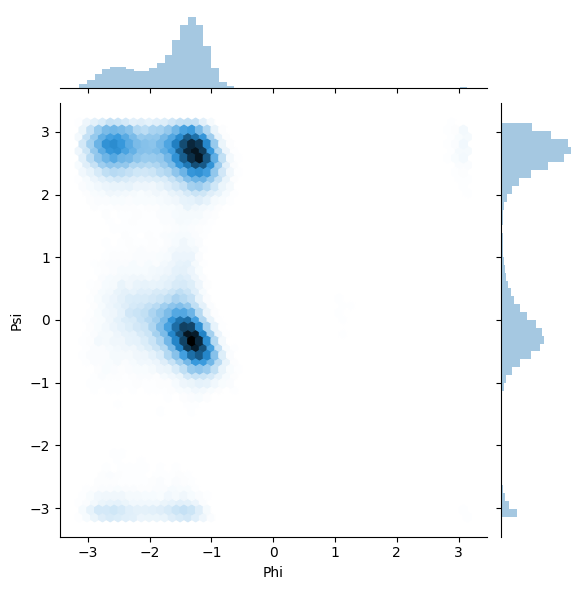
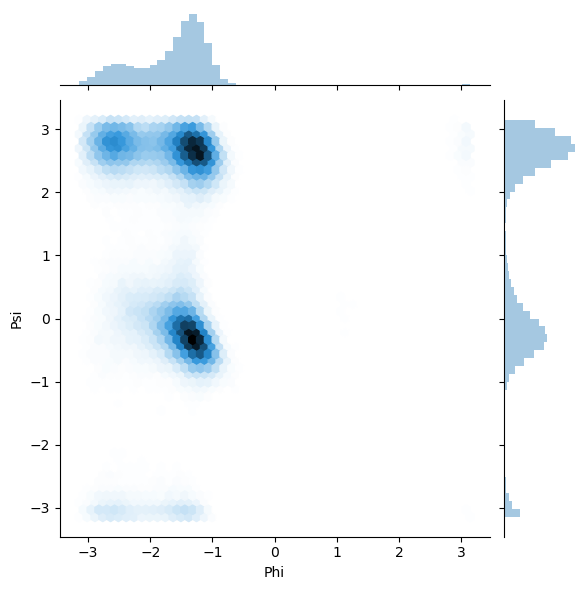
made get_angles.py

diff --git a/make_dataset/alanine/plot_phi_psi.py b/make_dataset/alanine/plot_phi_psi.py
@@ -1,6 +1,6 @@
 #!/usr/bin/env python
 # -*- coding: utf-8 -*-
-
+from get_angles import get_angles
 import matplotlib.pyplot as plt
 import mdtraj as md
 import numpy as np
@@ -9,18 +9,7 @@ from math import pi
 import seaborn as sns
 import pandas as pd
 
-def get_angles_dcd(fname1):
-    traj = md.load_dcd(fname1, top = '../ala2.pdb')
-    psi_indices, phi_indices = [6, 8, 14, 16], [4, 6, 8, 14]
-    arr_angles = md.compute_dihedrals(traj, [phi_indices, psi_indices])
-    return arr_angles
-
-def get_angles_xtc(fname1):
-    traj = md.load_xtc(fname1, top = '../ala2.pdb')
-    psi_indices, phi_indices = [6, 8, 14, 16], [4, 6, 8, 14]
-    arr_angles = md.compute_dihedrals(traj, [phi_indices, psi_indices])
-    return arr_angles
-
+"""
 def get_ene(fname2):
     ene=[]
     f = open(fname2, "r")
@@ -31,25 +20,23 @@ def get_ene(fname2):
             ene.append(float(itemList[3]))
     arr_ene = np.array(ene).reshape((10000,1))
     return arr_ene
-
-
+"""
 
 if __name__ == "__main__":
     argvs = sys.argv
-#    fname1 = str("../trajectory-1.dcd")
-#    fname2 = str(argvs[2])
-#    oname = str(argvs[3])
+    filepath = '/data/traj_data/ala_data/'
     for i in range(8):
         if i==0:
-            angles = get_angles_dcd("../trajectory-"+str(i+1)+".dcd")
+            angles = get_angles(filepath+"trajectory-"+str(i+1)+".dcd")
             angle_df = pd.DataFrame(data=angles, columns =["Phi", "Psi"] )
         if i>=1:
-            angles = get_angles_dcd("../trajectory-"+str(i+1)+".dcd")
+            angles = get_angles(filepath+"trajectory-"+str(i+1)+".dcd")
             angle_df_new = pd.DataFrame(data=angles, columns =["Phi", "Psi"] )
             angle_df = pd.concat([angle_df, angle_df_new], axis=0)
     print(angle_df)
+
     for i in range(5):
-        angles = get_angles_xtc("../trajectory-"+str(i+1)+".xtc")
+        angles = get_angles(filepath+"trajectory-"+str(i+1)+".xtc")
         angle_df_new = pd.DataFrame(data=angles, columns =["Phi", "Psi"] )
         angle_df = pd.concat([angle_df, angle_df_new], axis=0)
     print(angle_df)

diff --git a/make_dataset/alanine/make_data_ala.py b/make_dataset/alanine/make_data_ala.py
@@ -1,39 +1,23 @@
 #!/usr/bin/env python
 # -*- coding: utf-8 -*-
 
-import mdtraj as md
+from get_angles import get_angles
 import numpy as np
 import sys
 
-def get_angles_dcd(fname1):
-    traj = md.load_dcd(fname1, top = 'ala2.pdb')
-    psi_indices, phi_indices = [6, 8, 14, 16], [4, 6, 8, 14]
-    arr_angles = md.compute_dihedrals(traj, [phi_indices, psi_indices])
-    return arr_angles
-
-def get_angles_xtc(fname1):
-    traj = md.load_xtc(fname1, top = 'ala2.pdb')
-    psi_indices, phi_indices = [6, 8, 14, 16], [4, 6, 8, 14]
-    arr_angles = md.compute_dihedrals(traj, [phi_indices, psi_indices])
-    return arr_angles
-
 if __name__ == "__main__":
     argvs = sys.argv
-    #fname1_list = ['../trajectory-'+str(i)+'.dcd' for i in range(2, 9)]
-    #fname2_list = ['../trajectory-'+str(g)+'.xtc' for g in range(1, 6)]
-    #angles = get_angles_dcd('../trajectory-1.dcd')
     filepath = '/data/traj_data/ala_data/'
     fname1_list = [filepath + 'trajectory-'+str(i)+'.dcd' for i in range(2, 9)]
     fname2_list = [filepath + 'trajectory-'+str(g)+'.xtc' for g in range(1, 6)]
-    angles = get_angles_dcd(filepath + 'trajectory-1.dcd')
+    angles = get_angles(filepath + 'trajectory-1.dcd')
     for fname1 in fname1_list:
-        angles_new = get_angles_dcd(fname1)
+        angles_new = get_angles(fname1)
         angles = np.concatenate([angles, angles_new], axis=0)
     for fname2 in fname2_list:
-        angles_new = get_angles_xtc(fname2)
+        angles_new = get_angles(fname2)
         angles = np.concatenate([angles, angles_new], axis=0)
-    print(angles.shape)   ##(80000, 2)
-
+    print(angles.shape)   ##(180005, 2)
     angles = np.delete(angles, 0, 0)
     angles = np.delete(angles, 1, 0)
     angles = np.delete(angles, 2, 0)

diff --git a/make_dataset/alanine/get_angles.py b/make_dataset/alanine/get_angles.py
@@ -1,0 +1,21 @@
+import mdtraj as md
+
+def get_angles(fname1):
+    """
+    Parameter
+    ---------
+    fname1 : filename of the trajectory data file (.xtc or .dcd)
+    """
+    if fname1[-4:] == '.dcd':      
+        traj = md.load_dcd(fname1, top = 'ala2.pdb')
+    elif fname1[-4:] == '.xtc':
+        traj = md.load_xtc(fname1, top = 'ala2.pdb')
+    else :
+        return None
+    r"二面角を計算するために, 原子のindexのリストを作っている"
+    r"\psi : 7(N ALA),9(CA ALA),15,17(N NME)"
+    r"\phi : 5(C ACE),7(N ALA),9(CA ALA),15(C ALA)"
+    r"indexはトポロジカルデータから1ずつずれることに注意"
+    psi_indices, phi_indices = [6, 8, 14, 16], [4, 6, 8, 14]
+    arr_angles = md.compute_dihedrals(traj, [phi_indices, psi_indices])
+    return arr_angles
